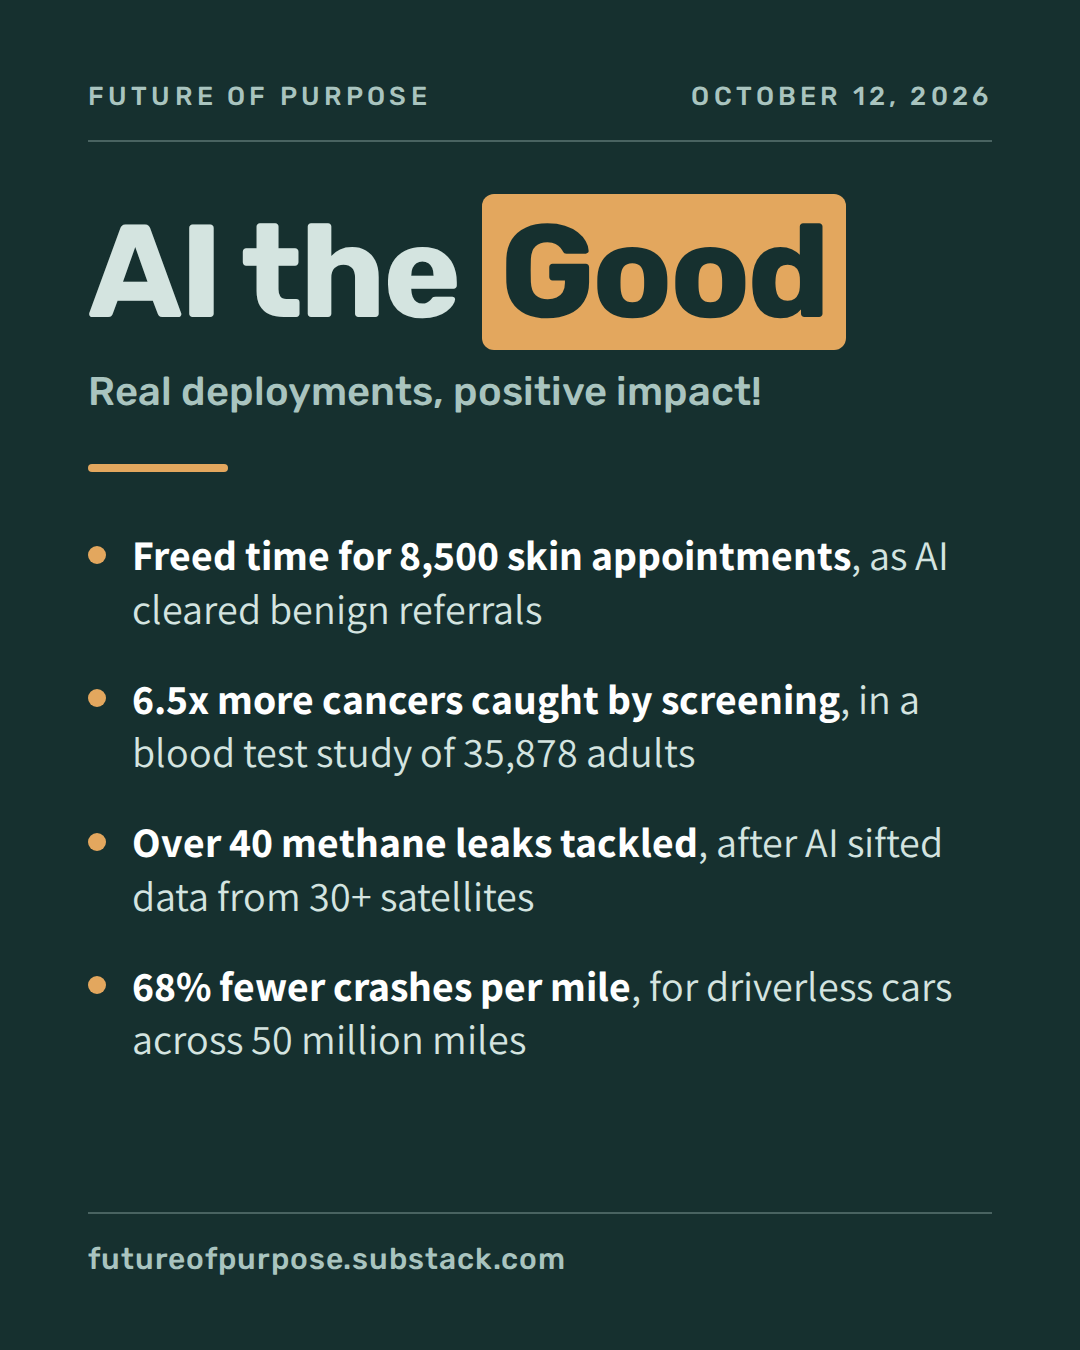
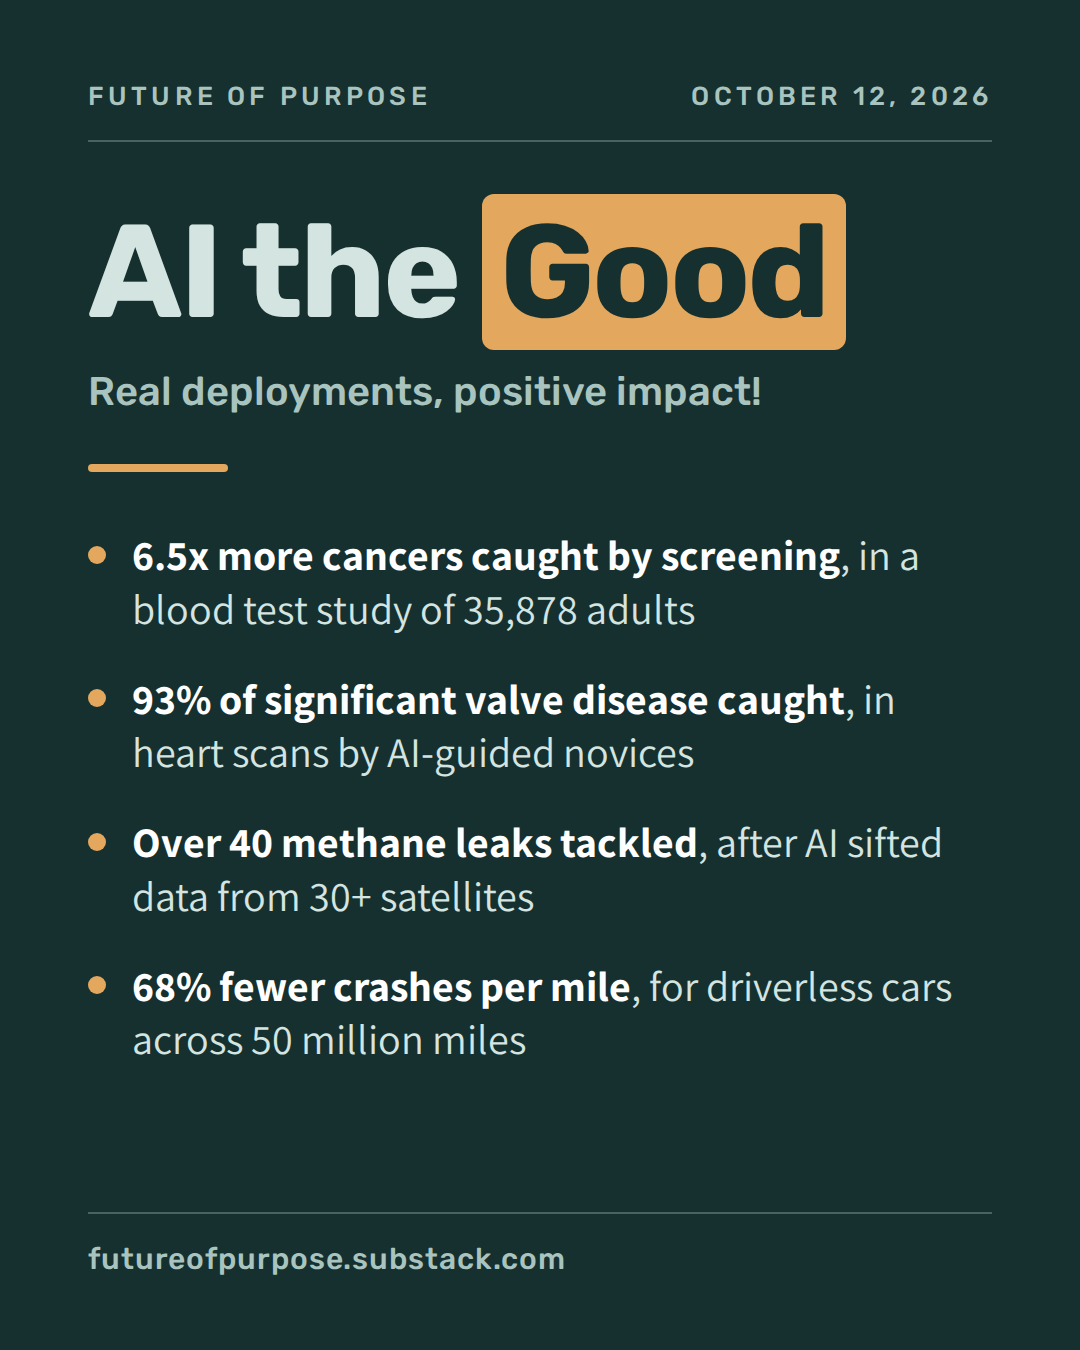
Edition 2026-10-12: card swaps skin triage for Mayo heart ultrasound
Claude-Session: https://claude.ai/code/session_01LdUdGxQR3dMYNp2VZiSYaY

Changed region(s): [[0.1222, 0.4978, 0.8556, 0.5911], [0.1222, 0.4044, 0.8861, 0.4667]]

diff --git a/2026-10-12/index.html b/2026-10-12/index.html
@@ -154,7 +154,7 @@ footer a{color:var(--ink)}
 <div class="list" id="list">
 <details class="story" id="uk-autonomous-skin-triage" data-key="uk-autonomous-skin-triage">
   <summary>
-    <span class="top">Cancer care<span class="badge card">On card</span></span>
+    <span class="top">Cancer care</span>
     <h2>AI clears benign skin referrals, freeing time for 8,500 more UK appointments</h2>
     <p class="why">Real-world study of 8,391 patients at 2 UK hospitals over 16 months; EADV Congress 2026 poster, not yet a journal paper</p>
     <span class="more-cue">Open to share &#8250;</span>
@@ -277,7 +277,7 @@ footer a{color:var(--ink)}
 </details>
 <details class="story" id="mayo-ai-heart-ultrasound" data-key="mayo-ai-heart-ultrasound">
   <summary>
-    <span class="top">Heart health</span>
+    <span class="top">Heart health<span class="badge card">On card</span></span>
     <h2>With 4 hours of training and AI, novices screened 1,302 hearts for valve disease</h2>
     <p class="why">Prospective test of 1,302 novice-acquired scans, JAMA Cardiology; Mayo has a financial interest</p>
     <span class="more-cue">Open to share &#8250;</span>
